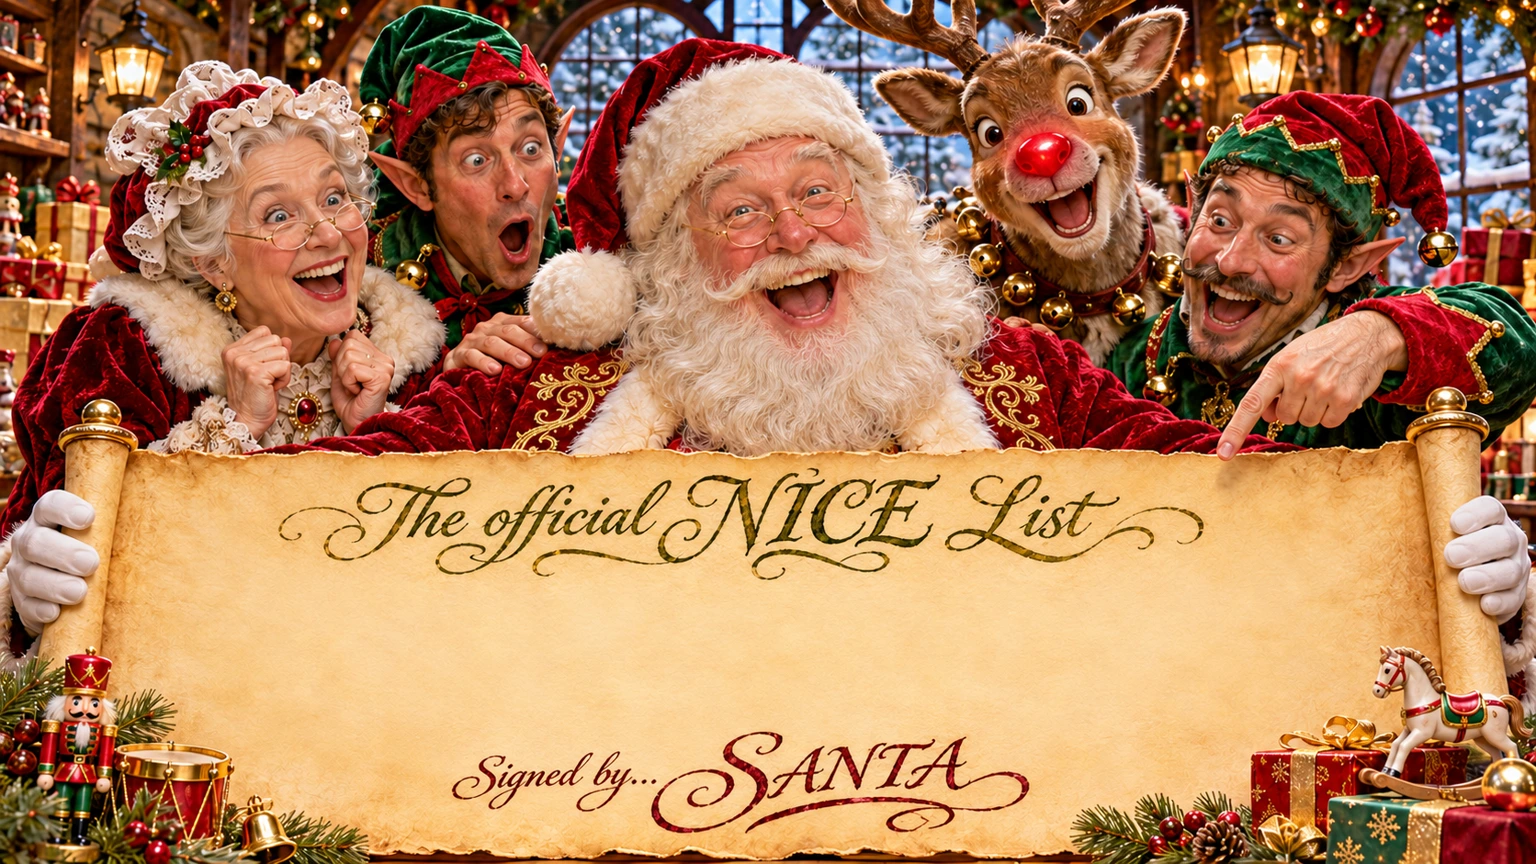
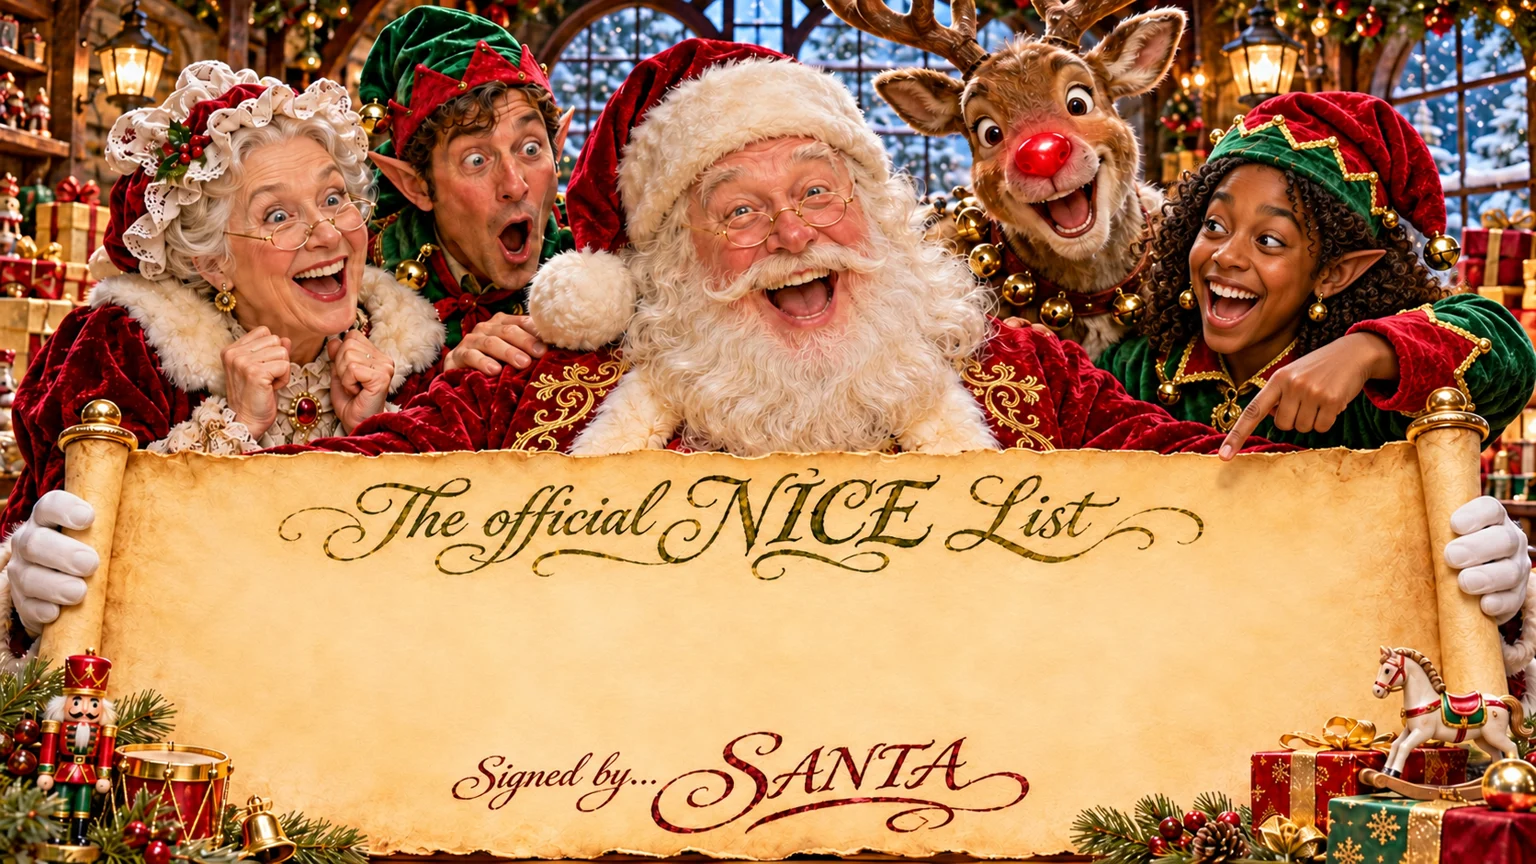
Polish Kids Studio selections, captions and gifts

diff --git a/src/pages/SantaMessageWorkshop.jsx b/src/pages/SantaMessageWorkshop.jsx
@@ -327,8 +327,8 @@ export default function SantaMessageWorkshop() {
   const hasCurrentStageChoice = isNameAndAge
     ? !!chosenName && hasCatalogueOptions && !!selectedAge
     : stage?.key === 'talent'
-      ? choices.talent?.skip === true || (choices.talent?.category === talentCategory
-        && catalogueOptions.some(record => record.id === choices.talent.id))
+      ? choices.talent?.category === talentCategory
+        && hasCatalogueOptions && catalogueOptions.some(record => record.id === choices.talent.id)
       : !!stage && hasCatalogueOptions && catalogueOptions.some(record => record.id === choices[stage.key]);
   const currentStep = isReview && deliveryStep !== 'review' ? progressLabels.length : stageIndex + 1;
   const canContinue = !isReview && hasCurrentStageChoice && (stage?.key !== 'place' || destinationValid);
@@ -460,10 +460,8 @@ export default function SantaMessageWorkshop() {
   };
 
   const continueToNext = () => {
-    if (stage.key === 'talent') {
-      if (!audioEditingAllowed) return;
-      if (!hasCurrentStageChoice) choose('talent', { skip: true });
-    } else if (!canContinue) {
+    if (!audioEditingAllowed) return;
+    if (!canContinue) {
       setError(stage.key === 'name'
         ? `Please choose ${chosenName ? 'their age' : 'their name'} before continuing.`
         : `Please choose ${stage.label.toLowerCase()} before continuing.`);
@@ -845,15 +843,15 @@ export default function SantaMessageWorkshop() {
                 : stage.note}</p>}
               </fieldset>
               <p className="smw-validation" id="smw-validation" role="alert">{error}</p>
-              <div className="smw-actions">
+              {(!isNameAndAge || editing) && <div className="smw-actions">
                 {(stageIndex > 0 || editing) && <button className="smw-button smw-button-back" type="button" onClick={goBack}>
                   <span aria-hidden="true">←</span> Back
                 </button>}
-                <button className="smw-button smw-button-next" type="button" onClick={continueToNext}
-                  disabled={isNameAndAge ? !hasCurrentStageChoice : stage.key === 'talent' ? !audioEditingAllowed : !hasCatalogueOptions}>
+                {!isNameAndAge && <button className="smw-button smw-button-next" type="button" onClick={continueToNext}
+                  disabled={!audioEditingAllowed || !canContinue}>
                   {editing ? 'Return to review' : stageIndex === stages.length - 1 ? 'Review my choices' : 'Continue'} <span aria-hidden="true">→</span>
-                </button>
-              </div>
+                </button>}
+              </div>}
             </div>
           ) : (
             <div className="smw-review" key="review">
@@ -869,9 +867,7 @@ export default function SantaMessageWorkshop() {
                             {selectedName && <WorkshopNamePreview key={selectedName.id} record={selectedName} cache={namePreviewCache} />}
                           </span>
                         : item.key === 'talent'
-                          ? <span className="smw-summary-answer">{choices.talent?.skip
-                              ? 'Skipped'
-                              : choices.talent
+                          ? <span className="smw-summary-answer">{choices.talent?.category
                                 ? `${choices.talent.category === 'sports' ? 'Sports & activities' : 'Something funny'} — ${
                                   catalogueState.catalogue?.categories?.[choices.talent.category]
                                     ?.find(record => record.id === choices.talent.id)?.label || 'This choice is no longer available.'}`
@@ -922,6 +918,15 @@ export default function SantaMessageWorkshop() {
                   }}
                   giftsRequested={retainedGifts.every(gift =>
                     ['certificate', 'letter', 'picture'].every(kind => requestedGifts[gift.revision]?.[kind]))}
+                  remainingNotice={deliveryStep === 'result' && generation.state?.limit === 2 && <p className="smw-allowance smw-remaining" role="status">
+                      {generation.checking ? 'Checking your remaining creations…' : generation.error
+                        ? 'Your remaining allowance could not be checked. Retry the recording check before creating.'
+                        : <>{generation.state.remaining} of 2 creations remaining.
+                          {generation.state.pending && ' A message is being prepared.'}
+                          {generation.state.remaining === 0 && ' Both creations have been used.'}
+                          {generation.state.remaining === 0 && completedGift && ' Keep this page open to play and download your current video message and gifts.'}
+                          {!completedGift && generation.state.successes > 0 && ' Previous recordings are not saved or restored.'}</>}
+                  </p>}
                   keepsakes={deliveryStep === 'result' ? keepsakes : null}
                   giftWrittenName={retainedGifts.map(gift => gift.writtenName).join(' and ')}
                   deliveryStep={deliveryStep} onDeliveryStep={setDeliveryStep}
@@ -965,9 +970,9 @@ export default function SantaMessageWorkshop() {
                   }}
                   complete={!!selectedName && destinationValid && regionalEditorial.ready && catalogueCategories.every(key =>
                     catalogueState.catalogue?.categories?.[key]?.some(record => record.id === choices[key]))
-                    && (choices.talent?.skip === true || (choices.talent?.category
-                      && catalogueState.catalogue?.categories?.[choices.talent.category]
-                        ?.some(record => record.id === choices.talent.id)))}
+                    && !!choices.talent?.category
+                    && catalogueState.catalogue?.categories?.[choices.talent.category]
+                      ?.some(record => record.id === choices.talent.id)}
                 />
               </div>
           {workshopSoundNotice && (
@@ -975,15 +980,7 @@ export default function SantaMessageWorkshop() {
               {workshopSoundNotice}
             </p>
           )}
-          {deliveryStep === 'result' && generation.state?.limit === 2 && <p className="smw-allowance smw-remaining" role="status">
-            {generation.checking ? 'Checking your remaining creations…' : generation.error
-              ? 'Your remaining allowance could not be checked. Retry the recording check before creating.'
-              : <>{generation.state.remaining} of 2 creations remaining.
-                {generation.state.pending && ' A message is being prepared.'}
-                {generation.state.remaining === 0 && ' Both creations have been used.'}
-                {generation.state.remaining === 0 && completedGift && ' Keep this page open to play and download your current video message and gifts.'}
-                {!completedGift && generation.state.successes > 0 && ' Previous recordings are not saved or restored.'}</>}
-          </p>}
+
         </section>
       </div>
     </main>

diff --git a/src/lib/studioVideoTimeline.js b/src/lib/studioVideoTimeline.js
@@ -19,33 +19,37 @@ export function studioVideoTimeline(result) {
   const nameStart = Math.max(3, cue('name', 10, 0));
   const ageStart = Math.max(nameStart, cue('age', 18, 0));
   const treatStart = cue('treat', 57), placeStart = cue('place', 70);
+  const destinationStart = placeStart - 2;
   const approvedStart = Number.isFinite(result.clipStarts?.secondName) && result.clipStarts.secondName >= 0
-    ? result.clipStarts.secondName : placeStart + 15;
+    ? Math.max(0, result.clipStarts.secondName - 2) : placeStart + 13;
   const selectedStrengths = [
     { id: 'talent', text: details.talent ? `Great at ${details.talent}` : '' },
-    { id: 'activity', text: details.activity ? `${details.talent ? 'And… trying' : 'Trying'} hard at ${details.activity}` : '' },
+    { id: 'activity', text: details.activity ? `Well done for trying hard at ${details.activity}` : '' },
     { id: 'achievement', text: details.achievement || '' },
   ].filter(caption => caption.text);
   const hasMeasuredStrengths = selectedStrengths.length > 0 && selectedStrengths.every(caption =>
     Number.isFinite(result.clipEnds?.[caption.id]) && result.clipEnds[caption.id] >= 0);
   const strengthCaptions = hasMeasuredStrengths
     ? selectedStrengths.map((caption, index) => ({ ...caption,
-      start: result.clipEnds[caption.id],
+      start: result.clipEnds[caption.id] - 2,
       end: Math.min(index + 1 < selectedStrengths.length
-        ? result.clipEnds[selectedStrengths[index + 1].id] : treatStart - 1, treatStart - 1),
+        ? result.clipEnds[selectedStrengths[index + 1].id] - 2 : treatStart - 1, treatStart - 1),
     })).filter(caption => caption.end > caption.start)
     : strengths ? [{ id: 'strengths', text: `Great at ${strengths}`, start: 38, end: Math.min(50, treatStart - 1) }] : [];
 
   const choiceCaptions = [
     ...strengthCaptions,
-    ...(details.treats ? [{ id: 'treat', text: `Thank you for leaving out ${details.treats}`, start: treatStart, end: Math.min(treatStart + 4, placeStart - 1) }] : []),
-    ...(details.destination ? [{ id: 'destination', text: `Santa on the way to ${details.destination}`, start: placeStart, end: Math.min(placeStart + 6, approvedStart) }] : []),
+    ...(details.treats ? [{ id: 'treat', text: `Thank you for leaving out ${details.treats}`, start: treatStart, end: destinationStart }] : []),
+    ...(details.destination ? [{ id: 'destination', text: `Christmas Eve, Santa will be visiting ${details.destination}`, start: destinationStart, end: approvedStart }] : []),
   ];
   const badgeStart = ageStart + 3;
   const name = (result.writtenName || '').trim();
   const introduction = `A message from Santa to ${name}`;
   const personalisedCaptions = choiceCaptions
-    .map(caption => ({ ...caption, start: Math.max(caption.start, badgeStart) }))
+    .map(caption => {
+      const start = Math.max(caption.start, badgeStart);
+      return { ...caption, start, end: Math.min(caption.end, start + 4 + CAPTION_FADE) };
+    })
     .filter(caption => caption.end > caption.start);
   return [
     { id: 'incoming', text: 'Incoming message from Santa', start: 0, end: 3, blink: true },
@@ -53,7 +57,7 @@ export function studioVideoTimeline(result) {
     { id: 'age', text: `${introduction}\nAged ${studioAge(result)}`, start: ageStart, end: badgeStart },
     { id: 'name-badge', text: name, start: badgeStart },
     ...personalisedCaptions,
-    { id: 'approved', text: 'Nice List Approved!', start: approvedStart, end: approvedStart + 9 },
+    { id: 'approved', text: name ? `${name}, Nice List Approved!` : 'Nice List Approved!', start: approvedStart, end: approvedStart + 9 },
     { id: 'christmas', text: 'Merry Christmas', start: approvedStart + 9 },
   ];
 }

diff --git a/src/pages/SantaMessageWorkshop.css b/src/pages/SantaMessageWorkshop.css
@@ -82,7 +82,6 @@ html:has(.smw-page) { scrollbar-gutter: stable; }
     0 14px 42px #06150f4a;
 }
 .smw-builder > .smw-allowance { flex: none; }
-.smw-builder > .smw-remaining { margin: auto 0 0; padding-top: 16px; }
 .smw-journey-heading {
   margin: 0 0 16px;
   color: var(--smw-gold-light);
@@ -443,7 +442,7 @@ html:has(.smw-page) { scrollbar-gutter: stable; }
   background: #d4af370a;
 }
 .smw-message-result h4 { margin: 0 0 10px; color: var(--smw-cream); }
-.smw-message-result p { color: #d5dece; font-size: .86rem; line-height: 1.6; }
+.smw-message-result p:not(.studio-letter__text p) { color: #d5dece; font-size: .86rem; line-height: 1.6; }
 .smw-message-result audio { display: block; width: 100%; max-width: 100%; margin: 16px 0; }
 .smw-message-finished {
   display: grid;
@@ -575,9 +574,11 @@ html:has(.smw-page) { scrollbar-gutter: stable; }
   display: grid;
   grid-template-columns: minmax(0, 1.1fr) minmax(0, 1fr);
   align-items: start;
-  gap: clamp(18px, 4vw, 48px);
+  column-gap: clamp(18px, 4vw, 48px);
+  row-gap: 8px;
 }
 .smw-start-layout > :is(.smw-stage-note, .smw-validation, .smw-actions) { grid-column: 1 / -1; }
+.smw-start-layout > .smw-validation:empty { position: absolute; min-height: 0; margin: 0; }
 .smw-start-artwork {
   display: grid;
   justify-items: center;
@@ -603,7 +604,7 @@ html:has(.smw-page) { scrollbar-gutter: stable; }
   .smw-builder-head > :is(.smw-step-count, .smw-header-continue) { grid-column: 2; grid-row: 1; }
   .smw-start-layout { grid-template-columns: minmax(0, 1fr); }
   .smw-start-layout .smw-start-artwork { order: 1; }
-  .smw-start-artwork { width: min(100%, 380px); margin: 0 auto; }
+  .smw-start-artwork { width: min(100%, 380px); margin: 10px auto 0; }
 }
 
 @media (max-width: 390px) {
@@ -623,7 +624,7 @@ html:has(.smw-page) { scrollbar-gutter: stable; }
 }
 
 .smw-message-finished > .santa-video-player { margin-block: 12px; }
-.smw-download-actions .message-share-icon { flex: 0 0 44px; width: 44px; height: 44px; margin-inline-end: auto; }
+.smw-download-actions .message-share-icon { flex: 0 0 44px; width: 44px; height: 44px; }
 
 .smw-scene-options {
   display: grid;
@@ -723,6 +724,23 @@ html:has(.smw-page) { scrollbar-gutter: stable; }
 .smw-scene-dialog__arrow:last-child { left: auto; right: 8px; }
 .smw-scene-dialog .smw-actions { margin-top: 12px; }
 
+.smw-finished-account > div {
+  display: flex;
+  flex-wrap: wrap;
+  align-items: center;
+  gap: 8px 14px;
+}
+.smw-finished-account p { margin: 0; }
+.smw-finished-account [role="status"] { flex-basis: 100%; }
+.smw-finished-account .smw-account-save { min-height: 44px; }
+.smw-finished-footer {
+  display: flex;
+  flex-wrap: wrap;
+  align-items: center;
+  justify-content: flex-end;
+  gap: 12px;
+}
+.smw-finished-footer > .smw-remaining { flex: 1 1 12rem; margin: 0; color: var(--smw-gold-light); }
 .smw-finished-keepsakes {
   min-width: 0;
   border-top: 1px solid #d4af3748;

diff --git a/src/components/WorkshopMessageAudio.jsx b/src/components/WorkshopMessageAudio.jsx
@@ -22,7 +22,7 @@ function trapDialogFocus(event) {
 
 export default function WorkshopMessageAudio({
   record, choices, spelling, ageLabel, complete, generation, correction, tester = false, onCorrection, visible, onPhaseChange, onReady,
-  deliveryTarget = null, onStartAgain, keepsakes,
+  deliveryTarget = null, onStartAgain, remainingNotice, keepsakes,
   giftsRequested = false, giftExportPending = false, giftWrittenName, onBundlePreparing, onBundleRequested, deliveryStep, onDeliveryStep,
 }) {
   const accessKind = useContext(StudioAccessContext);
@@ -324,6 +324,10 @@ export default function WorkshopMessageAudio({
     {/* Reverse presentation only: ordinals and the latest target stay chronological. */}
     {deliveryStep === 'result' && results.filter(result => result.artwork).map((result, index) => <StudioCompletedRecording key={result.url} result={result}
       keepsakes={index === results.length - 1 ? keepsakes : null}
+      footer={index === results.length - 1 && url ? <div className="smw-finished-footer">
+        {remainingNotice}
+        {startAction()}
+      </div> : null}
       ordinal={index + 1} visible={visible}
       onVideoReady={videoBlob => {
         const next = resultsRef.current.map(item => item.url === result.url ? { ...item, videoBlob } : item);
@@ -355,7 +359,6 @@ export default function WorkshopMessageAudio({
         Retry recording check</button></>}
     </p>}
     {deliveryTarget && createPortal(delivery, deliveryTarget)}
-    {deliveryStep === 'result' && url && startAction()}
     {deliveryStep === 'result' && url && messageAction()}
     {resetConfirmation && <dialog ref={resetDialogRef} className="smw-confirmation"
       aria-labelledby="smw-reset-title" aria-describedby="smw-reset-warning"

diff --git a/src/components/StudioAccountSave.jsx b/src/components/StudioAccountSave.jsx
@@ -23,5 +23,5 @@ export default function StudioAccountSave({result}) {
   }catch{setState('error')}
  }
  if(!result.archiveId)return <p><Link className="studio-account-link" to="/my-santa-messages" target="_blank" rel="noreferrer">Sign in to save future messages in your account</Link>.</p>;
- return <div><p>Find your message in <Link className="studio-account-link" to="/my-santa-messages">My Santa Messages</Link>.</p>{state!=='saved'&&<button type="button" disabled={state==='saving'} onClick={save}>{state==='saving'?'Saving your video and gifts…':'Save video, certificate, letter and picture to my account'}</button>}<p role="status">{state==='saved'?'Your video and all three personalised gifts are saved.':state==='error'?'Some files could not be saved. Keep this tab open and retry, or download them now.':'Keep this tab open while your video and gifts are saved.'}</p></div>;
+ return <div><p>Find your message in <Link className="studio-account-link" to="/my-santa-messages">My Santa Messages</Link>.</p>{state!=='saved'&&<button className="smw-button smw-button-back smw-account-save" type="button" disabled={state==='saving'} onClick={save}>{state==='saving'?'Saving your video and gifts…':'Save video and gifts to my account'}</button>}<p role="status">{state==='saved'?'Your video and all three personalised gifts are saved.':state==='error'?'Some files could not be saved. Keep this tab open and retry, or download them now.':'Keep this tab open while your video and gifts are saved.'}</p></div>;
 }

diff --git a/src/components/StudioCompletedRecording.jsx b/src/components/StudioCompletedRecording.jsx
@@ -9,7 +9,7 @@ import { createStudioVideo, createStudioVideoPoster, studioVideoFilename, STUDIO
 import './SantaFreeVideo.css';
 
 // The captured recording and gift details own the name and age, never the next draft.
-export default function StudioCompletedRecording({ result, keepsakes, ordinal, visible, sectionRef, onDownloadRequested, onBundlePreparing, onBundleRequested, onVideoReady }) {
+export default function StudioCompletedRecording({ result, keepsakes, footer, ordinal, visible, sectionRef, onDownloadRequested, onBundlePreparing, onBundleRequested, onVideoReady }) {
   const radio = useRadio();
   const section = useRef(null), resume = useRef(null), playingVideo = useRef(null);
   const callbacks = useRef({ onVideoReady, onBundlePreparing });
@@ -78,6 +78,7 @@ export default function StudioCompletedRecording({ result, keepsakes, ordinal, v
       </div>
       <div className="smw-finished-account"><StudioAccountSave result={result} /></div>
       {keepsakes && <div className="smw-finished-keepsakes">{keepsakes}</div>}
+      {footer}
     </>}
   </section>;
 }
